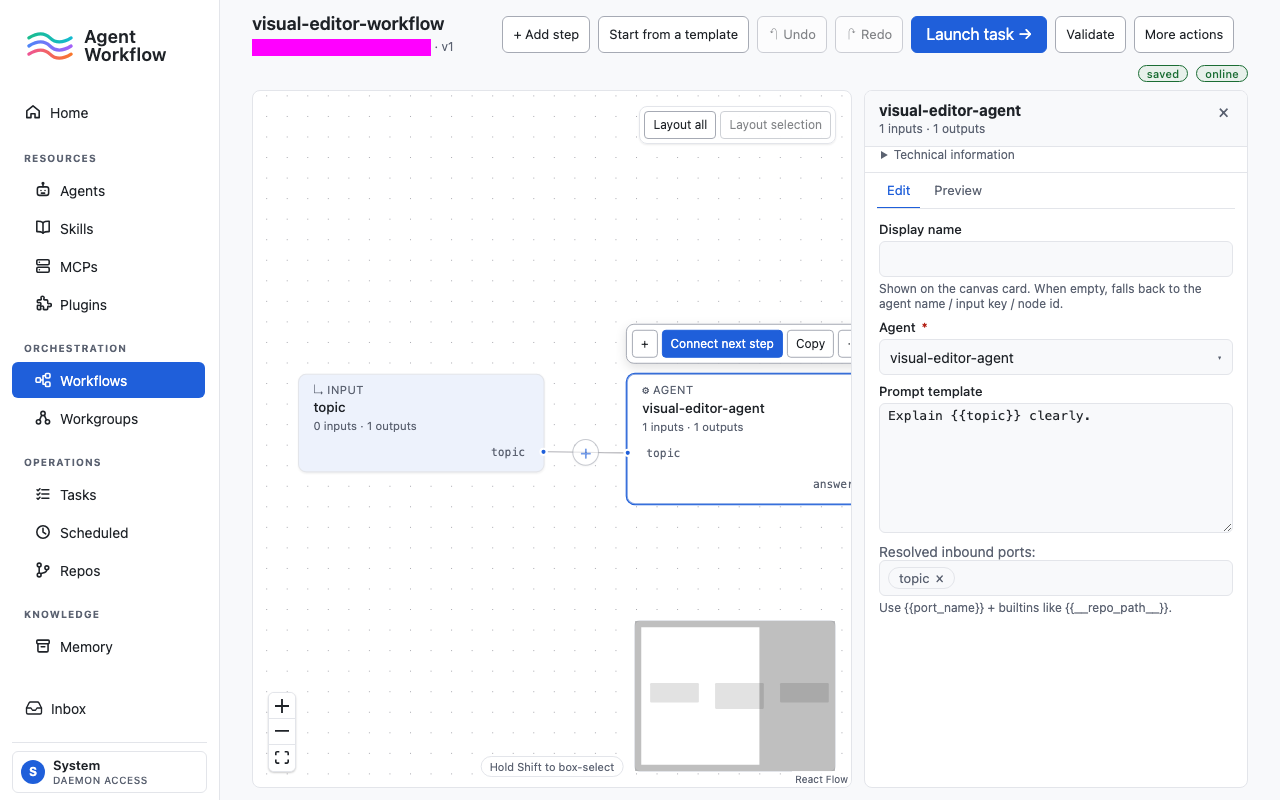
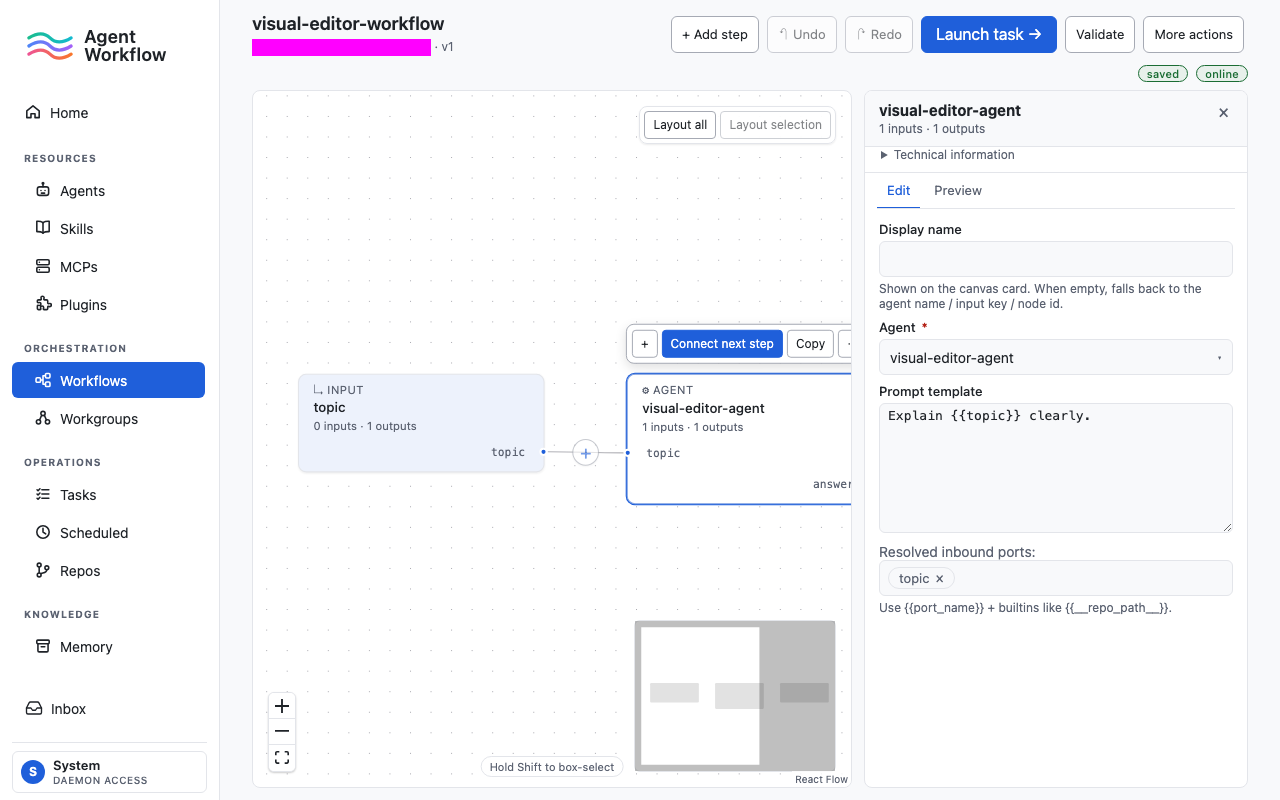
fix(editor): 头部操作区右对齐 + 移除顶栏「从模板开始」重复入口
- 右对齐：RFC-199 把编辑器头部做成 flex-start 滚动条带（防标签变宽换行挤
  动画布），代价是按钮全贴左、与其它页面头部不一致（用户 2026-07-21 报告）。
  改为首个操作元素 margin-inline-start:auto——放得下时右对齐，溢出时自动
  归零回到可滚动条带；不能用 flex-end（滚动容器起始侧会被裁剪不可达）。
- 「从模板开始」只保留空画布入口（workflow-empty-start-template，tour 文案
  本就写"空画布上点"）；顶栏重复按钮删除（用户裁定），tour 锚点改指空画布
  按钮，starterTriggerRef 归 openStarter 单一来源。
- 测试：route-draft 的 canvas mock 补 onStartFromTemplate 触发器并断言头部
  无旧按钮；新增 editor-header-actions 源码锁（auto 边距 + flex-start 滚动
  不变量 + 头部无 start-template + tour 新锚点）。
- 视觉基线：darwin 3 张重生成（1536 三栏、1280 inspector 明/暗）；linux 3 张
  待 CI artifact 跟进补齐。

Changed region(s): [[0.4062, 0.0, 0.9688, 0.0625]]

diff --git a/packages/frontend/tests/editor-header-actions.test.ts b/packages/frontend/tests/editor-header-actions.test.ts
@@ -1,0 +1,49 @@
+// 2026-07-21 editor header cleanup — locks two user-reported regressions:
+//
+// 1. The editor action strip must stay visually right-aligned. RFC-199 turned
+//    it into a `justify-content: flex-start` scroll strip (so overflow stays
+//    reachable), which left the buttons hugging the title on wide screens.
+//    The fix is an auto start margin on the first action: right-aligned when
+//    the row fits, collapses to 0 when it overflows. `flex-end` on the scroll
+//    container is NOT an acceptable替代 — it clips the start side unreachably.
+//
+// 2. The header「从模板开始」button was removed (the empty-canvas
+//    `workflow-empty-start-template` entry is the single starter entry now;
+//    the tour anchors there too). Reintroducing the header duplicate should
+//    be a deliberate decision, not a merge accident.
+
+import { describe, expect, test } from 'vitest'
+import { readFileSync } from 'node:fs'
+import { fileURLToPath } from 'node:url'
+import path from 'node:path'
+
+const here = path.dirname(fileURLToPath(import.meta.url))
+const css = readFileSync(path.resolve(here, '../src/styles.css'), 'utf8')
+const editorRoute = readFileSync(path.resolve(here, '../src/routes/workflows.edit.tsx'), 'utf8')
+const tourScript = readFileSync(path.resolve(here, '../src/components/tour/tourScript.ts'), 'utf8')
+
+describe('editor header action strip alignment', () => {
+  test('first action carries the auto start margin that right-aligns the strip', () => {
+    expect(css.includes('.page--editor > .page__header > .page__actions > :first-child')).toBe(true)
+    const rule = css.split('.page--editor > .page__header > .page__actions > :first-child')[1]!
+    expect(rule.slice(0, rule.indexOf('}'))).toContain('margin-inline-start: auto')
+  })
+
+  test('the strip itself stays a flex-start scroll container (overflow reachability)', () => {
+    const block = css.split('.page--editor > .page__header > .page__actions {')[1]!
+    const body = block.slice(0, block.indexOf('}'))
+    expect(body).toContain('justify-content: flex-start')
+    expect(body).toContain('overflow-x: auto')
+  })
+})
+
+describe('editor header starter entry removal', () => {
+  test('workflows.edit.tsx no longer renders the header start-template button', () => {
+    expect(editorRoute.includes('workflow-start-template')).toBe(false)
+  })
+
+  test('the tour anchors the template step at the empty-canvas starter button', () => {
+    expect(tourScript.includes('data-testid="workflow-empty-start-template"')).toBe(true)
+    expect(tourScript.includes('data-testid="workflow-start-template"')).toBe(false)
+  })
+})

diff --git a/packages/frontend/tests/workflow-editor-route-draft.test.tsx b/packages/frontend/tests/workflow-editor-route-draft.test.tsx
@@ -159,8 +159,9 @@ vi.mock('@/components/canvas/WorkflowCanvas', async () => {
         definition: WorkflowDefinition
         onChange: (definition: WorkflowDefinition) => void
         onSelect?: (selection: { kind: 'node' | 'edge'; id: string } | null) => void
+        onStartFromTemplate?: (trigger: HTMLElement) => void
       }
-    >(function MockWorkflowCanvas({ definition, onChange, onSelect }, ref) {
+    >(function MockWorkflowCanvas({ definition, onChange, onSelect, onStartFromTemplate }, ref) {
       React.useImperativeHandle(ref, () => ({
         addPaletteItemAtViewportCenter: () => undefined,
         openNodePicker: canvasHistoryHarness.openNodePicker,
@@ -172,6 +173,15 @@ vi.mock('@/components/canvas/WorkflowCanvas', async () => {
       return (
         <>
           <output data-testid="canvas-input-count">{definition.inputs.length}</output>
+          {onStartFromTemplate !== undefined ? (
+            <button
+              type="button"
+              data-testid="workflow-empty-start-template"
+              onClick={(event) => onStartFromTemplate(event.currentTarget)}
+            >
+              start from template
+            </button>
+          ) : null}
           {definition.nodes[0] !== undefined ? (
             <button
               type="button"
@@ -352,7 +362,10 @@ describe('WorkflowEditorLoaded RFC-199 draft integration', () => {
     renderEditor(detail())
     await flushEffects()
 
-    fireEvent.click(screen.getByTestId('workflow-start-template'))
+    // The starter entry lives only on the empty canvas now — the header
+    // duplicate was removed (user decision, 2026-07-21).
+    expect(screen.queryByTestId('workflow-start-template')).toBeNull()
+    fireEvent.click(screen.getByTestId('workflow-empty-start-template'))
     fireEvent.click(screen.getByTestId('mock-starter-apply'))
     expect(screen.getByTestId('canvas-input-count').textContent).toBe('1')
     expect(screen.getByTestId('workflow-undo').textContent).toContain('Apply workflow starter')

diff --git a/packages/frontend/src/routes/workflows.edit.tsx b/packages/frontend/src/routes/workflows.edit.tsx
@@ -828,17 +828,6 @@ export function WorkflowEditorLoaded({
       </button>
       <button
         type="button"
-        className="btn btn--sm"
-        ref={(node) => {
-          if (modalSurface !== 'starter') starterTriggerRef.current = node
-        }}
-        onClick={(event) => openStarter(event.currentTarget)}
-        data-testid="workflow-start-template"
-      >
-        {t('editor.emptyCanvas.startTemplate')}
-      </button>
-      <button
-        type="button"
         className="btn btn--sm workflow-history-action"
         onClick={controller.undo}
         disabled={!controller.canUndo}

diff --git a/packages/frontend/src/styles.css b/packages/frontend/src/styles.css
@@ -5102,6 +5102,15 @@ details.form-section[open] > summary {
   flex: 0 0 auto;
 }
 
+/* Right-align the action strip when it fits (visual parity with every other
+ * page header) while keeping overflow scrollable: an auto start margin on the
+ * first action collapses to 0 once the row overflows, which `justify-content:
+ * flex-end` on a scroll container cannot do — it would clip the start side
+ * unreachably. */
+.page--editor > .page__header > .page__actions > :first-child {
+  margin-inline-start: auto;
+}
+
 .page--editor h1 {
   font-size: 18px;
   line-height: 1.3;

diff --git a/packages/frontend/src/components/tour/tourScript.ts b/packages/frontend/src/components/tour/tourScript.ts
@@ -152,7 +152,11 @@ const BUILD_WORKFLOW: Tour = {
       bodyKey: 'tour.buildWorkflow.newWorkflow.body',
     },
     {
-      anchor: '[data-testid="workflow-start-template"]',
+      // The empty-canvas starter button — the header duplicate was removed;
+      // a freshly created workflow always shows the empty state, so the
+      // anchor is present exactly when this step runs (and the step copy
+      // already says 「空画布上点…」).
+      anchor: '[data-testid="workflow-empty-start-template"]',
       route: '/workflows/',
       titleKey: 'tour.buildWorkflow.template.title',
       bodyKey: 'tour.buildWorkflow.template.body',